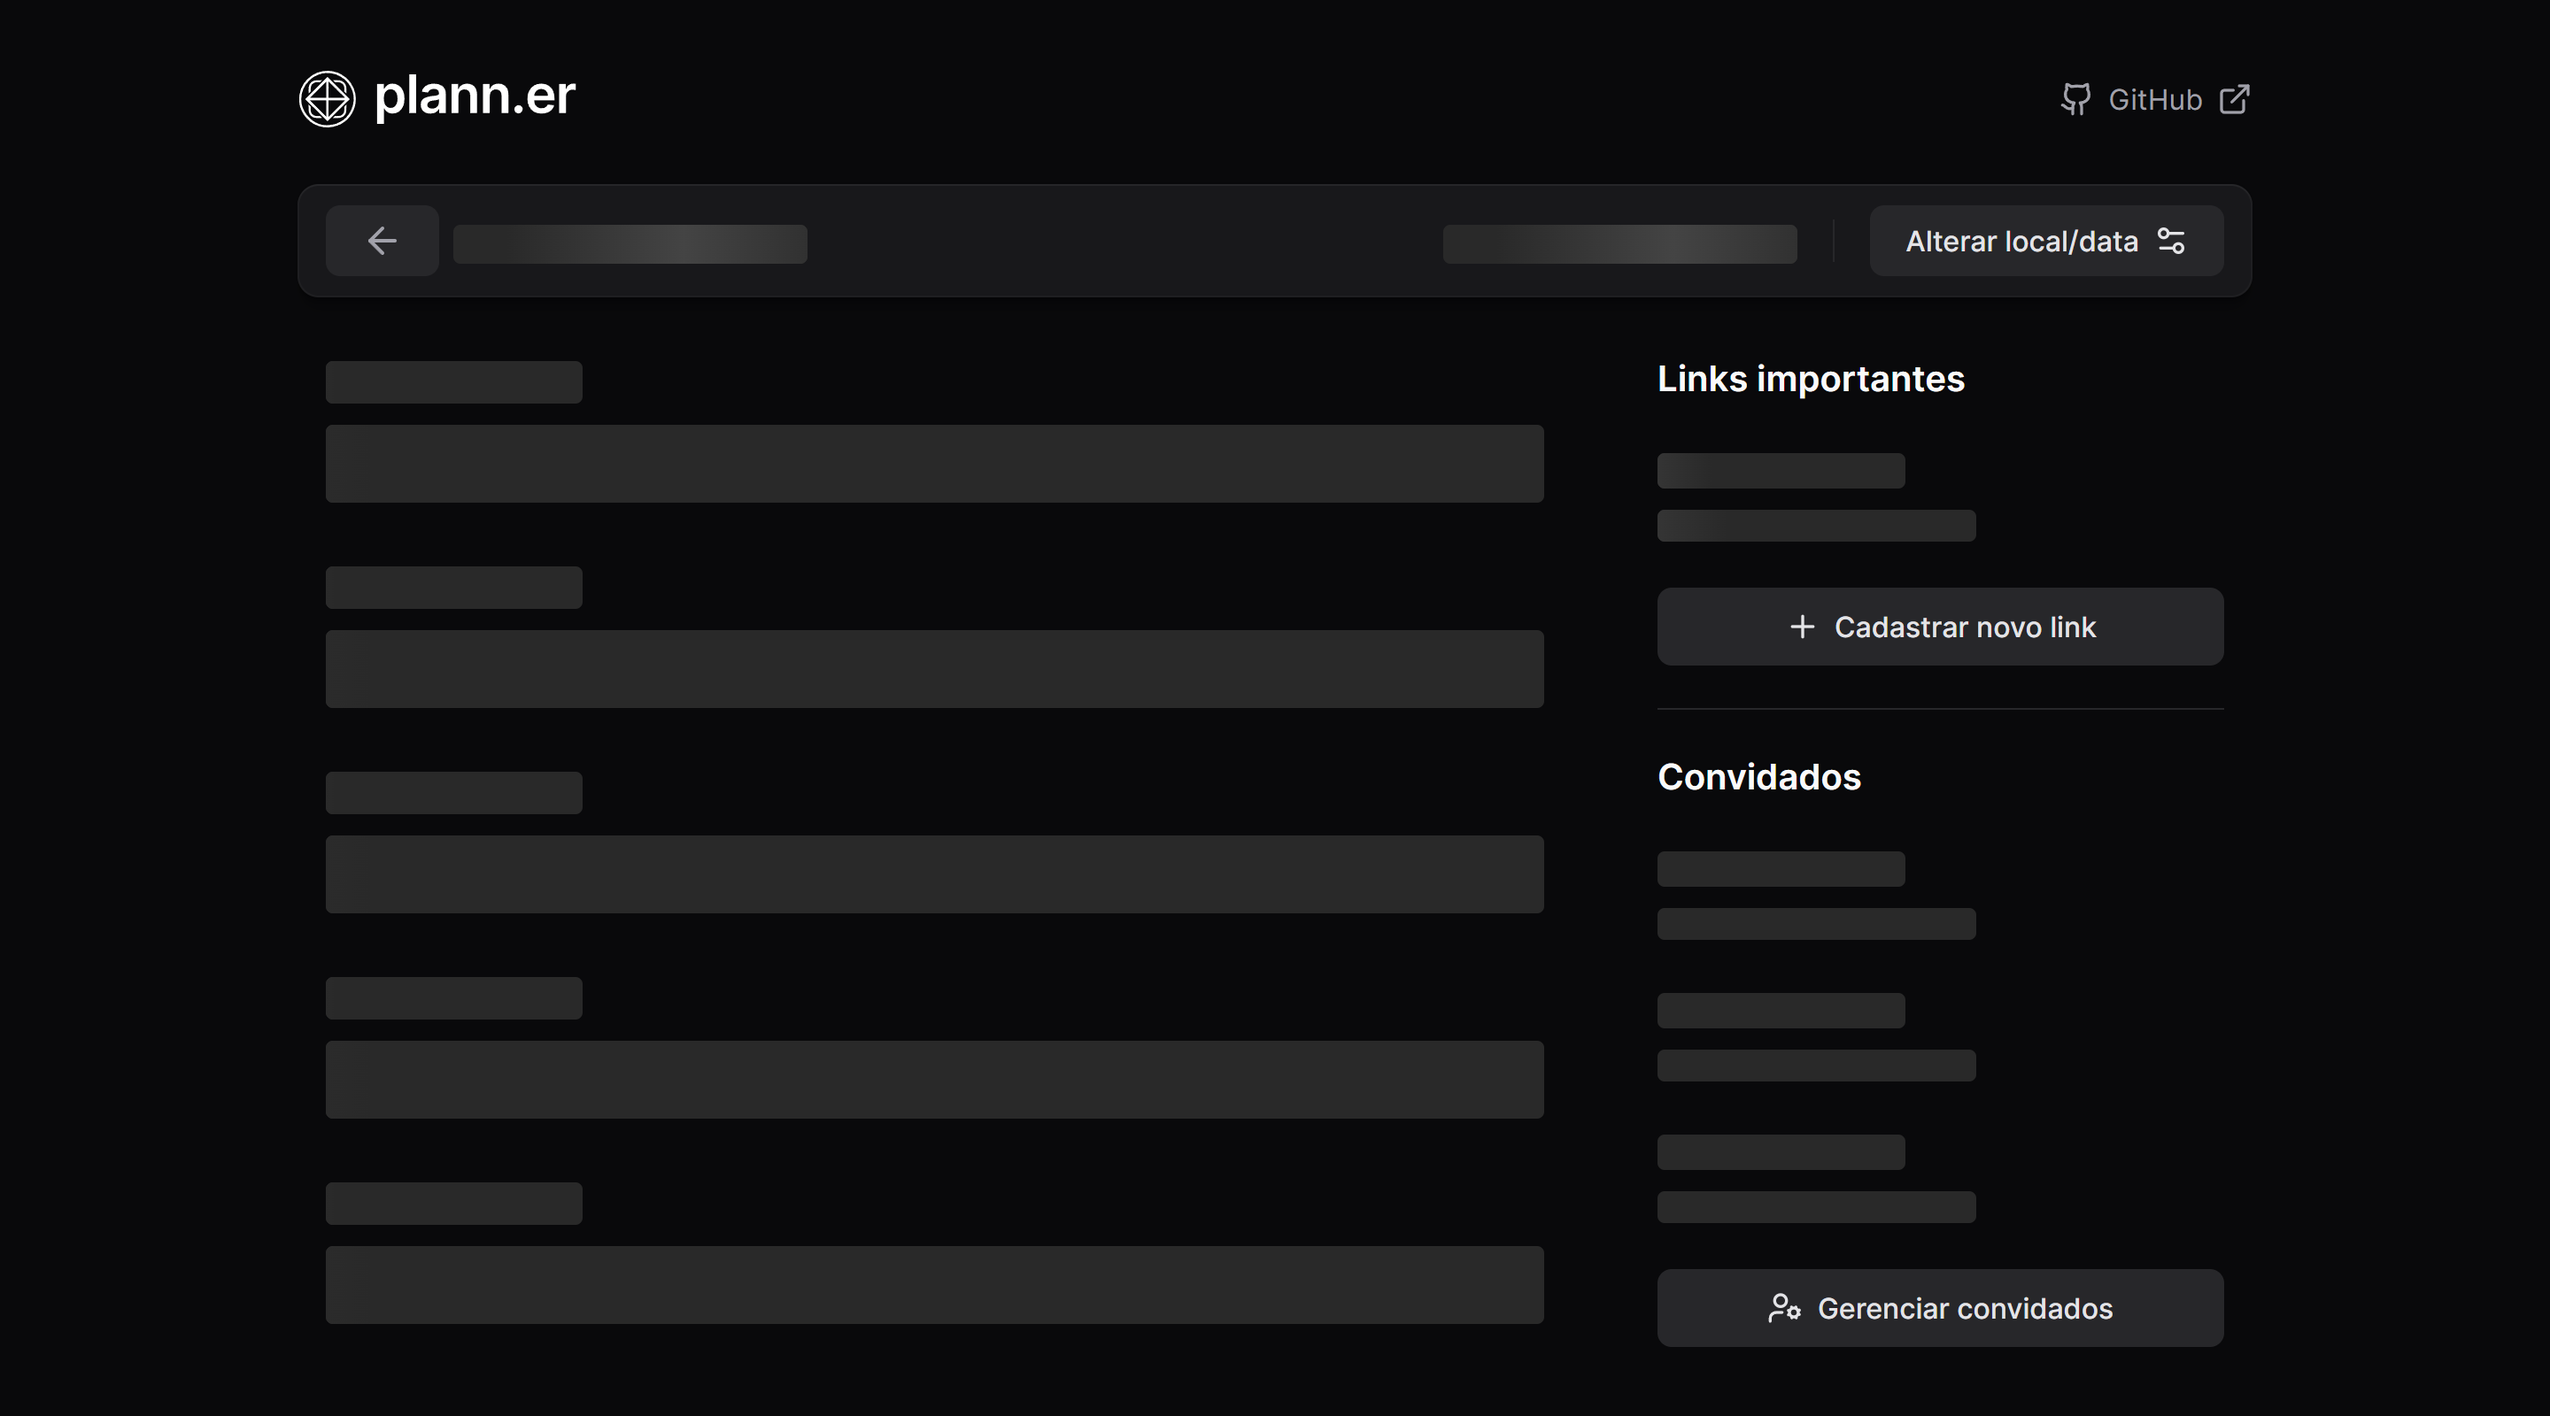
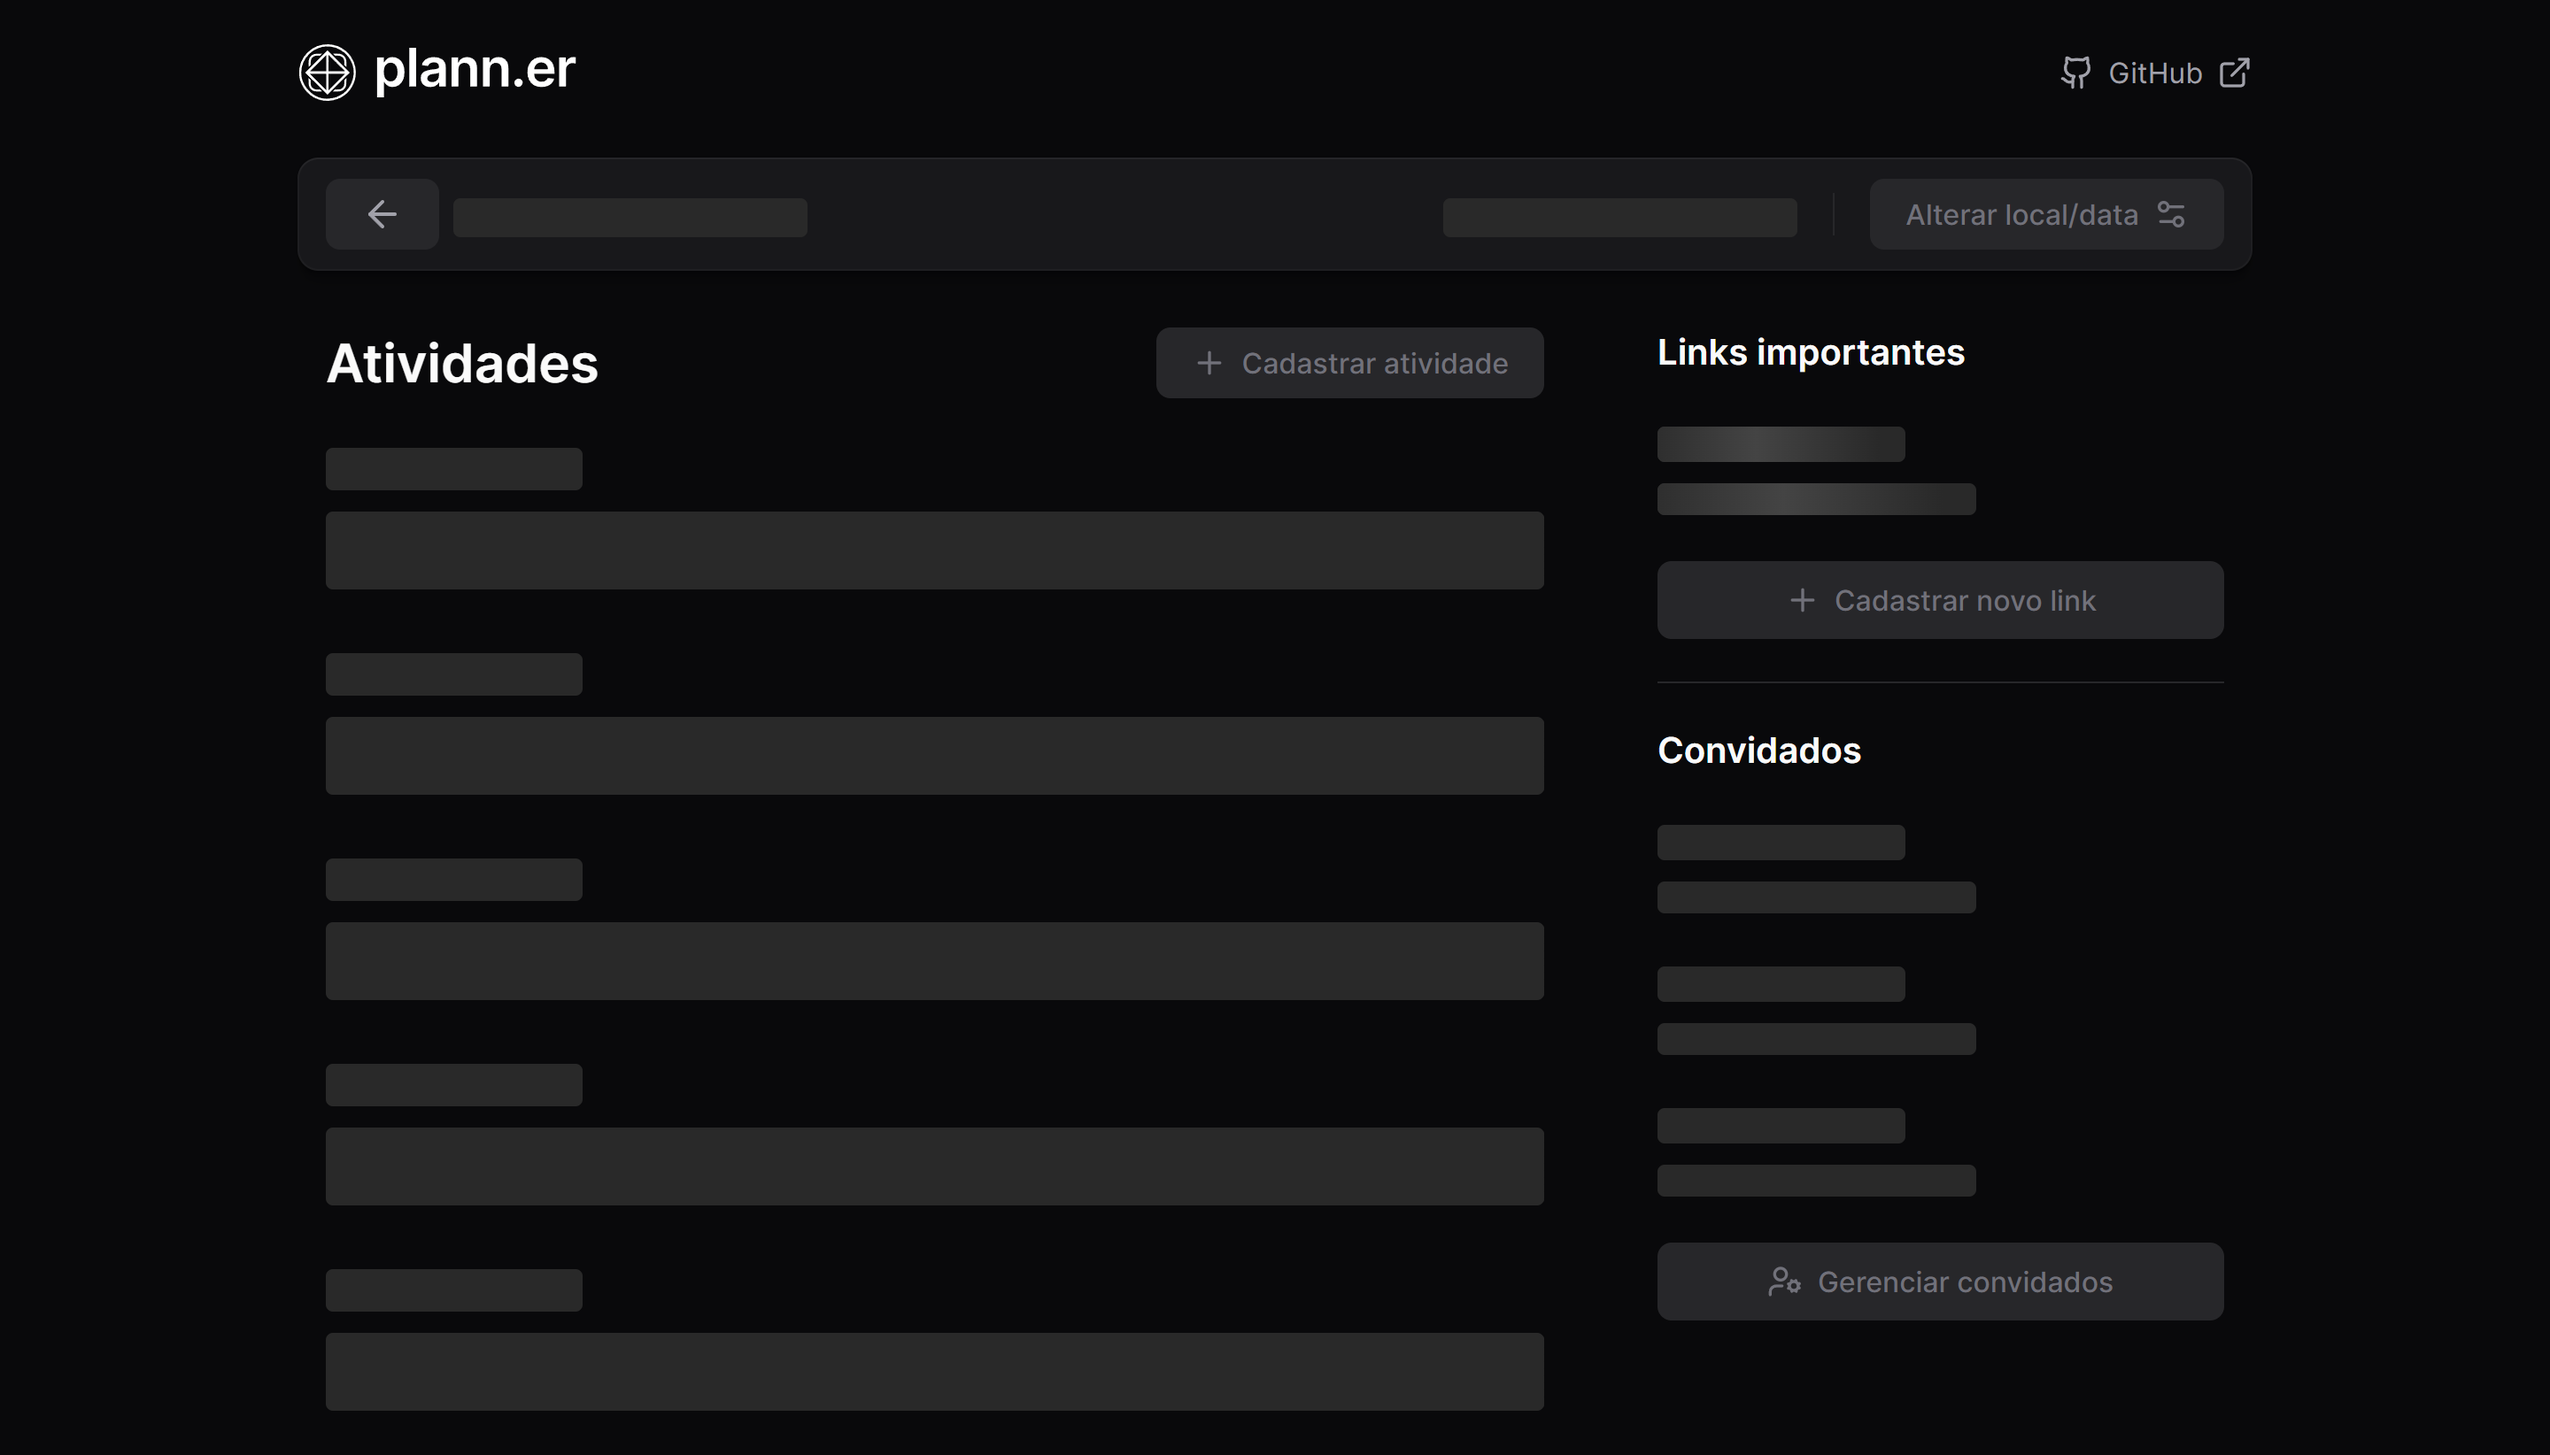
feat: Add features for trip creation, guest selection, activity registration, date validation, useful links, skeleton loader, responsive design, and link copying

diff --git a/src/components/button.tsx b/src/components/button.tsx
@@ -9,7 +9,7 @@ const buttonVariants = tv({
       primary:
         "bg-lime-300 text-lime-950 hover:bg-lime-400 disabled:bg-zinc-800 disabled:text-zinc-500 transition-colors duration-300",
       secondary:
-        "bg-zinc-800 text-zinc-200 hover:bg-zinc-700 transition-colors duration-300",
+        "bg-zinc-800 text-zinc-200 hover:bg-zinc-700 disabled:bg-zinc-800 disabled:text-zinc-500 transition-colors duration-300",
     },
 
     size: {

diff --git a/README.md b/README.md
@@ -79,6 +79,17 @@ O objetivo principal do **Plann.er** é criar uma plataforma que permita aos usu
   </tr>
 </table>
 
+## ✨ Features
+
+- [x] Criação de viagens
+- [x] Seleção de convidados para a viagem
+- [x] Cadastro de atividades
+- [x] Validação de datas disponíveis para atividades
+- [x] Cadastro de links úteis
+- [x] Skeleton loader para carregamento de informações
+- [x] Design responsivo
+- [x] Cópia de link para a área de transferência
+
 ## 💻 Demonstração
 
 [plann-er-demo.webm](https://github.com/mathrb22/nlw-journey-frontend/assets/62413443/3d8dcfa3-9fb8-47d0-80d6-e9f55627f19e)
